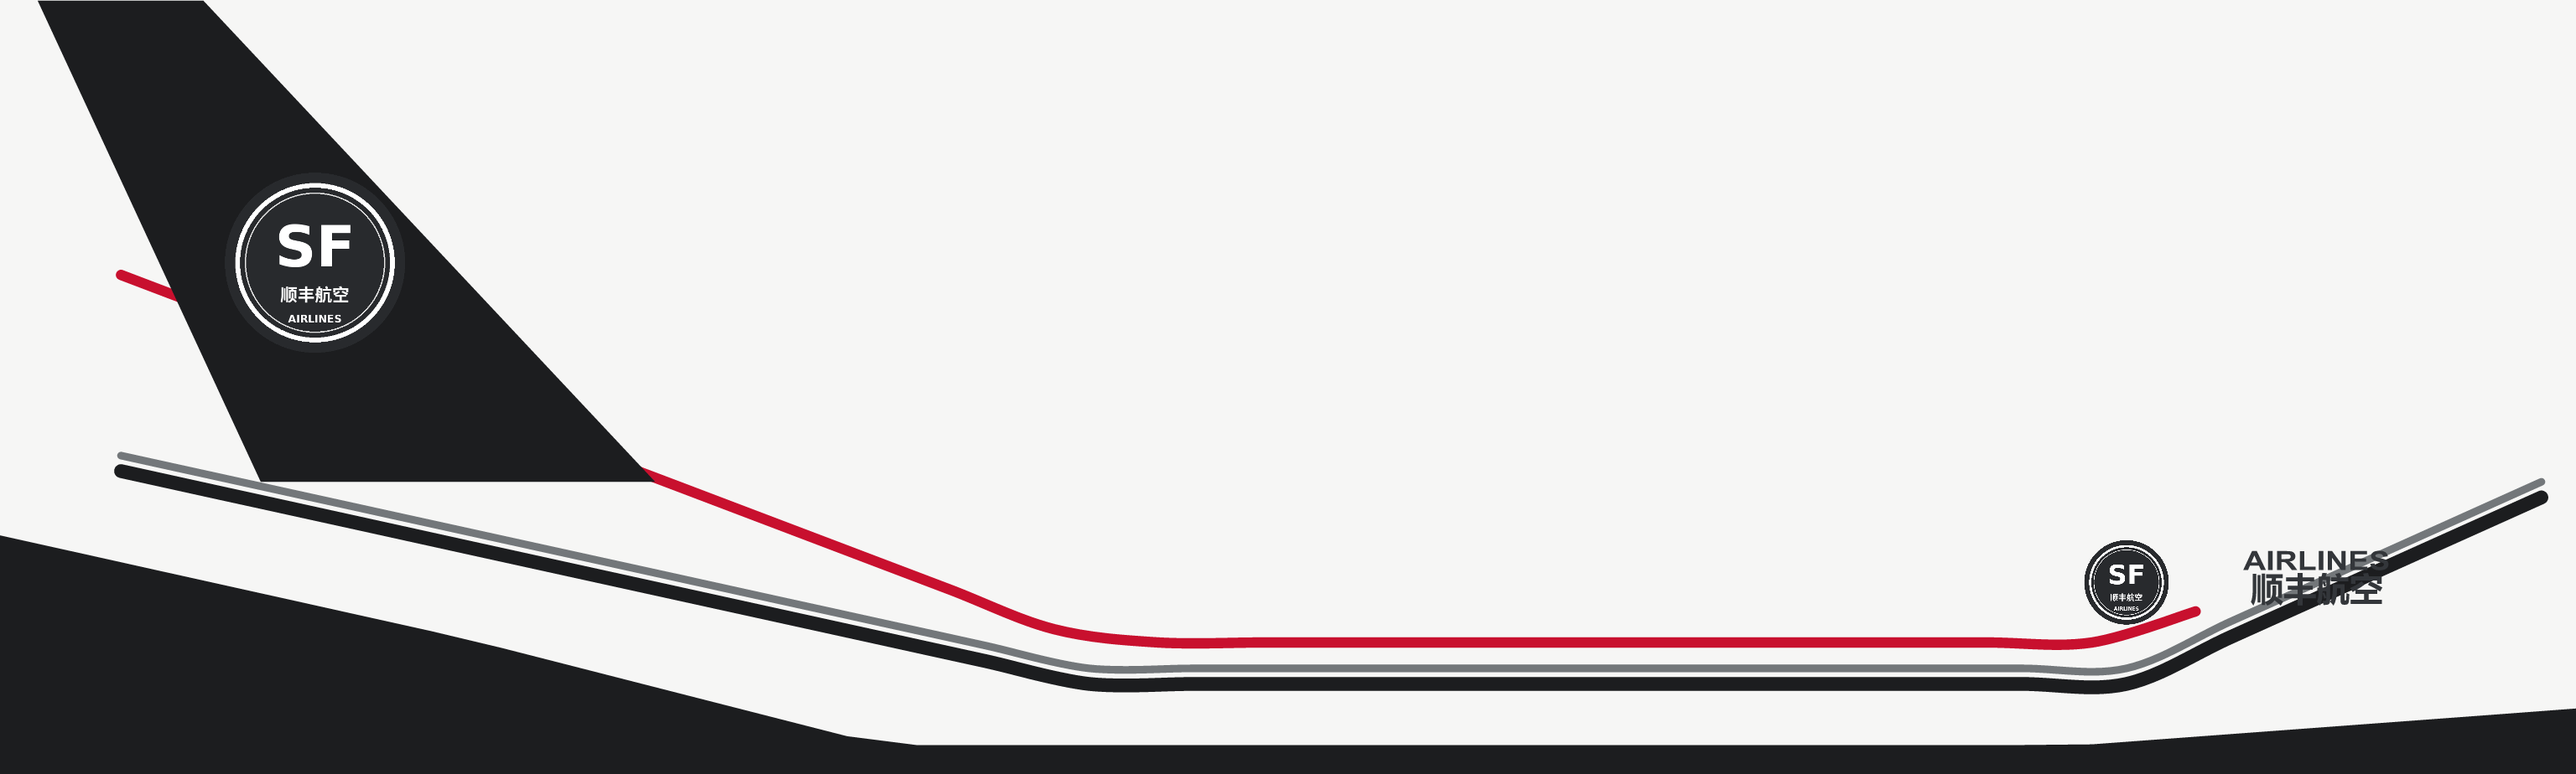
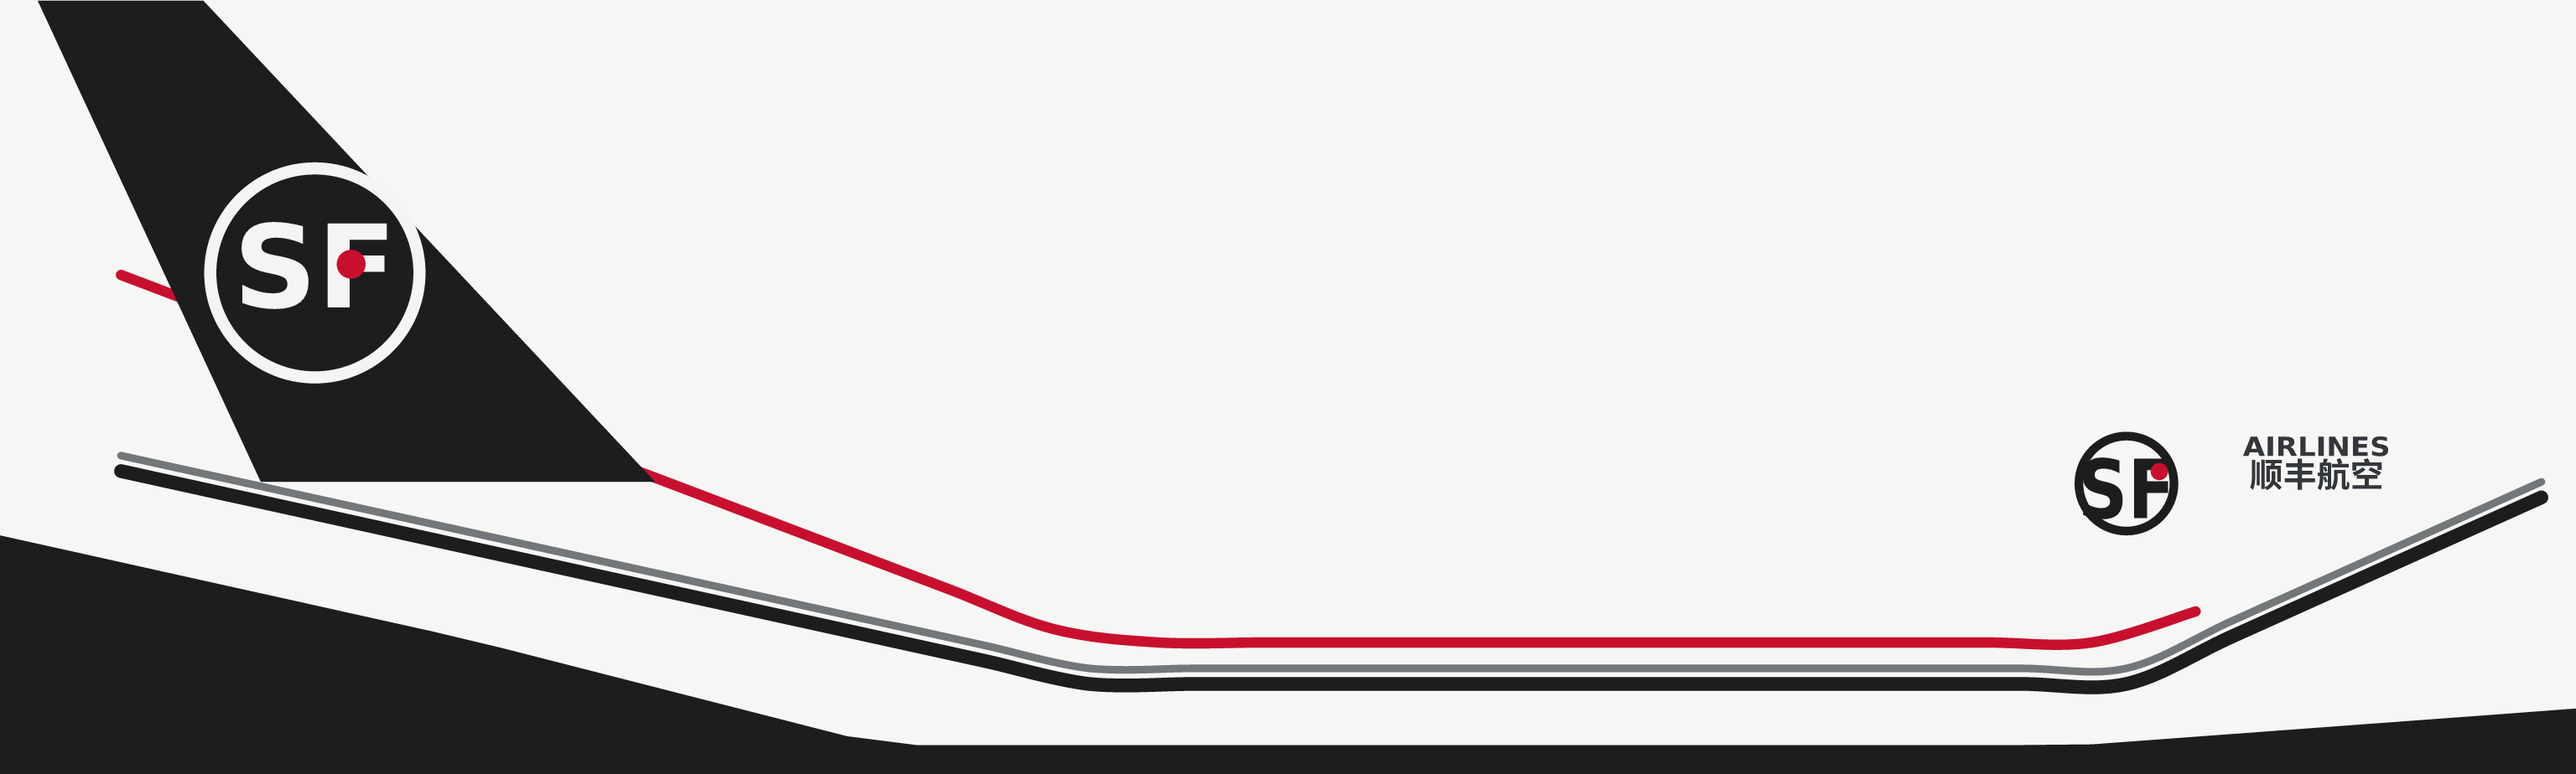
fix: correct 747 real-status notes and A380 SF tail/fuselage marks
- reality-b747: BOE becomes a family adaptation (N401PW is bare metal
  with blue/red stripes); DLH100 and UAE become none (no 747-400 in
  these liveries/operators).
- A380 SF: replace the dark text badge (black on black on the fin) with
  the photographed white-ring SF tail mark and black-ring fuselage mark,
  both with the red dot. Add a Noto CJK fallback for regeneration on
  Linux; bump A380_ATLAS_VERSION so cached textures refresh.

Agent: Pi coding agent
Model: deepseek/deepseek-v4.1-flash-1017

diff --git a/src/reality-b747.js b/src/reality-b747.js
@@ -4,16 +4,16 @@
 //         'none'   = no such real aircraft exists; the livery is a compatibility adaptation.
 // note: one short Chinese sentence shown under the livery list.
 export const B747_REALITY={
- BOE:{status:'real',note:'波音 747-400 原型机 N401PW 的厂色涂装（原型机装普惠发动机，本模型为 GE 发动机）。'},
+ BOE:{status:'family',note:'波音 747-400 原型机 N401PW 为银色裸金属机身、蓝红线条与“747”尾标；本模型的白机身蓝腰线为波音厂色的近似适配，并非原型机涂装。'},
  CCA:{status:'real',note:'国航 747-400（如 B-2443、B-2447、B-2472）的红凤凰涂装。'},
  CEA:{status:'none',note:'东航没有 747 客机，仅旗下中国货运航空飞过 747 货机；此为东航客机涂装的适配。'},
  CSN:{status:'family',note:'南航只有货运 747-400F（B-2461、B-2473，约 2002–2022 年），没有 747 客机；客机涂装为适配。'},
  CHH:{status:'none',note:'海南航空从未运营过 747；此为兼容适配。'},
- UAE:{status:'family',note:'阿联酋没有 747 客机，天空货运曾租用 747-400F/ERF；客机涂装为适配。'},
+ UAE:{status:'none',note:'阿联酋没有 747 客机，天空货运曾租用 747-400F/ERF；此为客机涂装的兼容适配。'},
  BAW:{status:'real',note:'英航 747-400（G-BN**、G-CIV* 等），尾翼为 Chatham Dockyard 联合旗；2020 年已全部退役。'},
  KLM:{status:'real',note:'荷航 747-400（PH-BF*，共 22 架，1989–2021 年）的蓝色涂装。'},
  DLH:{status:'real',note:'汉莎 747-400（D-ABV*、D-ABT*）2018 年前的黄圈蓝尾、灰色机腹涂装。'},
- DLH100:{status:'family',note:'百年纪念涂装现实中涂在 747-8I 上，747-400 并无此涂装。'},
+ DLH100:{status:'none',note:'百年纪念涂装实际涂在 747-8I 上，747-400 并无此涂装；此为深蓝配色的兼容适配。'},
  AF1_CLASSIC:{status:'family',note:'空军一号 VC-25A 为 747-200B 改装，浅蓝白涂装；747-400 并非专机。'},
  AF1_2026:{status:'family',note:'白红金深蓝与星条圆徽用于 747-8I VC-25B；747-400 仅作同系列适配。'},
  fedex:{status:'family',note:'联邦快递飞过 747-100F/-200F，没有自有 747-400F；涂装为原创近似绘制。'},

diff --git a/src/a380-paint.js b/src/a380-paint.js
@@ -10,7 +10,7 @@ import {A380_NATIVE} from './a380-liveries.js';
 export const A380_ATLAS={x0:-37.5,x1:37.0,y0:-9.8,y1:12.6};
 const ROOT='/747/assets/a380-liveries/';
 // Bump when generated atlases change: the server gives /assets/* a 24-hour browser cache.
-export const A380_ATLAS_VERSION='20261104-9';
+export const A380_ATLAS_VERSION='20261111-1';
 const FIN_BASE_Y=-1.4;
 
 const BODY_MATERIAL=/^A380X_FUSE[1235]$/;
